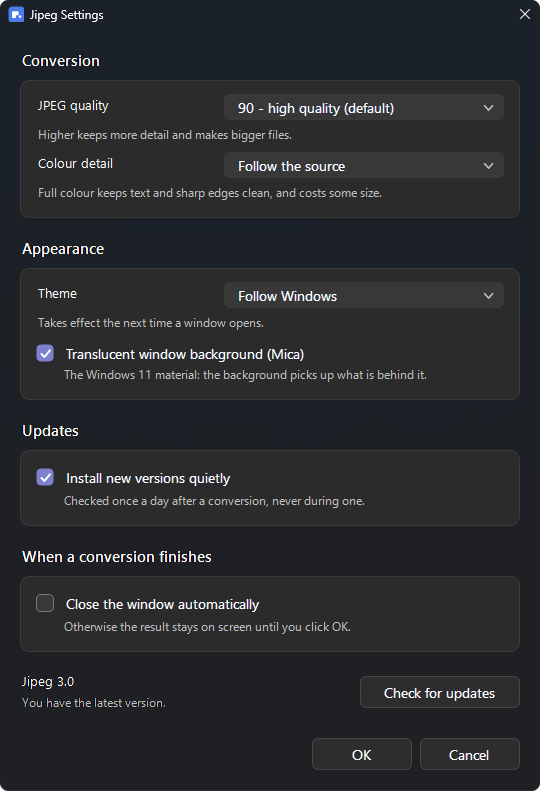
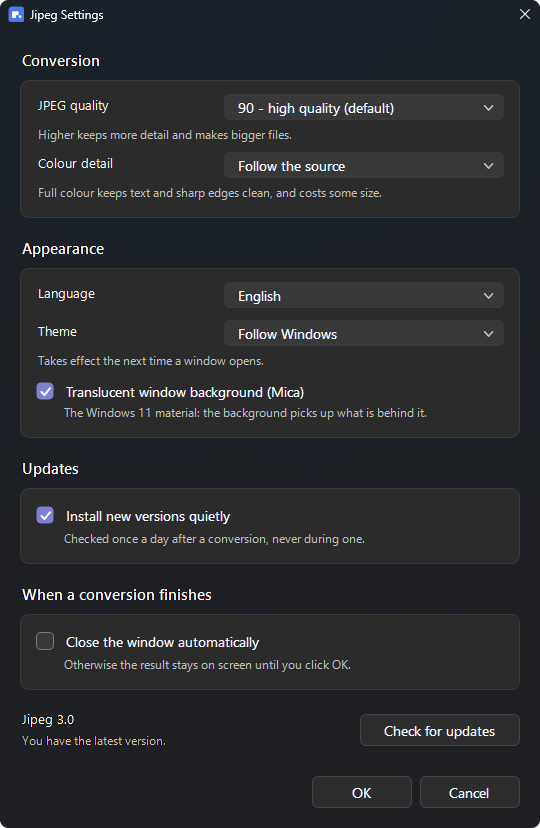
Take out what nobody calls, and stop saying things twice
Compress-JipegPng was left behind when the oxipng call became asynchronous:
defined, never called, and still carrying its own error handling. $JipegFontBold
was declared and never read.

The two PNG chunk walkers were nearly the same function. Both opened the file,
both stepped through the same chunks, and each returned one of two facts that
sit within a few bytes of each other. They are one walk now, returning both.
Same outputs to the byte on a thirteen-file corpus.

Six comments were in French in a codebase written in English, and without
their accents on top of that. The console installer printed the English name
of the right-click entry even when it had just written a Russian one into the
registry - it reads the name back now instead of repeating it.

Twenty-nine lines lighter than before the language work started, not counting
the ten language files.

diff --git a/docs/index.html b/docs/index.html
@@ -308,7 +308,7 @@ var T = {
     cap1:"pendant la conversion", cap2:"tous les réglages, sans exception",
     unix:"<b>Expérimental, et jamais exécuté par son auteur.</b> Il existe un portage pour GNOME Files, KDE Dolphin, XFCE Thunar et le Finder de macOS. Il a été écrit sous Windows : le shell est syntaxiquement valide et les property lists aussi, c'est tout ce qui a été vérifié.",
     s6:"Testé sur une seule machine",
-    p5:"Vingt comportements sont vérifiés à chaque modification, et la géométrie de la fenêtre est mesurée plutôt que regardée — mais tout cela sur une seule machine Windows 11, à 100 % d'échelle. Le HEIC et l'AVIF n'y ont jamais été décodés pour de vrai, l'échelle d'affichage n'est que simulée, et le portage Linux et macOS n'a jamais été exécuté. Les deux bugs qui comptaient ont été trouvés par quelqu'un d'autre.",
+    p5:"Vingt comportements sont vérifiés à chaque modification, et la géométrie de la fenêtre est mesurée plutôt que regardée — mais tout cela sur une seule machine Windows 11, à 100 % d'échelle. Le HEIC et l'AVIF n'y ont jamais été décodés pour de vrai, l'échelle d'affichage n'est que simulée, et le portage Linux et macOS n'a jamais été exécuté.L'interface parle dix langues et chaque chaîne a été mesurée par rapport à la boîte qui doit la contenir, mais aucun locuteur natif n'a relu les neuf traductions. Les deux bugs qui comptaient ont été trouvés par quelqu'un d'autre.",
     l1:"Télécharger", l2:"Code source", l3:"Manuel",
     foot:"Encodage par <a href=\"https://github.com/google/jpegli\">jpegli</a>, compilé par <a href=\"https://github.com/libjxl/libjxl\">libjxl</a>. PNG compressés par <a href=\"https://github.com/oxipng/oxipng\">oxipng</a>, WebP lus par <a href=\"https://github.com/webmproject/libwebp\">libwebp</a>. Sous licence MIT, sans lien avec Google ni avec le comité JPEG."
   },
@@ -334,7 +334,7 @@ var T = {
     cap1:"durante la conversión", cap2:"todos los ajustes que hay",
     unix:"<b>Experimental, y su autor nunca lo ha ejecutado.</b> Hay una adaptación para GNOME Files, KDE Dolphin, XFCE Thunar y el Finder de macOS. Se escribió en Windows: el shell y las listas de propiedades son válidos, y eso es todo lo comprobado.",
     s6:"Probado en una sola máquina",
-    p5:"Veinte comportamientos se comprueban en cada cambio, y la geometría de la ventana se mide en vez de mirarse — pero todo en una sola máquina con Windows 11, al 100 % de escala. HEIC y AVIF nunca se han descodificado aquí de verdad, el escalado de pantalla solo está simulado, y la adaptación a Linux y macOS nunca se ha ejecutado. Los dos fallos que importaban los encontró otra persona.",
+    p5:"Veinte comportamientos se comprueban en cada cambio, y la geometría de la ventana se mide en vez de mirarse — pero todo en una sola máquina con Windows 11, al 100 % de escala. HEIC y AVIF nunca se han descodificado aquí de verdad, el escalado de pantalla solo está simulado, y la adaptación a Linux y macOS nunca se ha ejecutado.La interfaz habla diez idiomas y cada cadena se midió contra la caja que debe contenerla, pero ningún hablante nativo ha leído las nueve traducciones. Los dos fallos que importaban los encontró otra persona.",
     l1:"Descargar", l2:"Código", l3:"Manual",
     foot:"Codificación de <a href=\"https://github.com/google/jpegli\">jpegli</a>, compilado por <a href=\"https://github.com/libjxl/libjxl\">libjxl</a>. PNG comprimidos por <a href=\"https://github.com/oxipng/oxipng\">oxipng</a>, WebP leídos por <a href=\"https://github.com/webmproject/libwebp\">libwebp</a>. Licencia MIT, sin relación con Google ni con el comité JPEG."
   },
@@ -360,7 +360,7 @@ var T = {
     cap1:"während der Umwandlung", cap2:"sämtliche Einstellungen",
     unix:"<b>Experimentell, und vom Autor nie ausgeführt.</b> Es gibt eine Portierung für GNOME Files, KDE Dolphin, XFCE Thunar und den macOS Finder. Sie entstand unter Windows: die Shell und die Property-Lists sind gültig, mehr wurde nicht geprüft.",
     s6:"Auf einem einzigen Rechner geprüft",
-    p5:"Zwanzig Verhaltensweisen werden bei jeder Änderung geprüft, und die Geometrie des Fensters wird gemessen statt angesehen — alles jedoch auf einem einzigen Windows-11-Rechner bei 100 % Skalierung. HEIC und AVIF wurden hier nie wirklich dekodiert, die Skalierung ist nur simuliert, und die Portierung auf Linux und macOS lief nie. Die beiden Fehler, auf die es ankam, fand jemand anderes.",
+    p5:"Zwanzig Verhaltensweisen werden bei jeder Änderung geprüft, und die Geometrie des Fensters wird gemessen statt angesehen — alles jedoch auf einem einzigen Windows-11-Rechner bei 100 % Skalierung. HEIC und AVIF wurden hier nie wirklich dekodiert, die Skalierung ist nur simuliert, und die Portierung auf Linux und macOS lief nie.Die Oberfläche spricht zehn Sprachen, und jede Zeichenkette wurde gegen ihren Platz gemessen - gelesen hat die neun Übersetzungen aber kein Muttersprachler. Die beiden Fehler, auf die es ankam, fand jemand anderes.",
     l1:"Herunterladen", l2:"Quelltext", l3:"Handbuch",
     foot:"Kodierung durch <a href=\"https://github.com/google/jpegli\">jpegli</a>, gebaut von <a href=\"https://github.com/libjxl/libjxl\">libjxl</a>. PNGs verkleinert von <a href=\"https://github.com/oxipng/oxipng\">oxipng</a>, WebP gelesen von <a href=\"https://github.com/webmproject/libwebp\">libwebp</a>. MIT-Lizenz, ohne Verbindung zu Google oder zum JPEG-Komitee."
   },
@@ -386,7 +386,7 @@ var T = {
     cap1:"durante a conversão", cap2:"todas as definições que existem",
     unix:"<b>Experimental, e nunca executado pelo autor.</b> Existe uma adaptação para o GNOME Files, KDE Dolphin, XFCE Thunar e o Finder do macOS. Foi escrita no Windows: a shell e as property lists são válidas, e é tudo o que foi verificado.",
     s6:"Testado numa só máquina",
-    p5:"Vinte comportamentos são verificados a cada alteração, e a geometria da janela é medida em vez de observada — mas tudo numa só máquina com Windows 11, a 100 % de escala. HEIC e AVIF nunca foram aqui descodificados a sério, a escala do ecrã é apenas simulada, e a adaptação a Linux e macOS nunca foi executada. Os dois erros que importavam foram encontrados por outra pessoa.",
+    p5:"Vinte comportamentos são verificados a cada alteração, e a geometria da janela é medida em vez de observada — mas tudo numa só máquina com Windows 11, a 100 % de escala. HEIC e AVIF nunca foram aqui descodificados a sério, a escala do ecrã é apenas simulada, e a adaptação a Linux e macOS nunca foi executada.A interface fala dez idiomas e cada texto foi medido contra a caixa que o tem de conter, mas nenhum falante nativo leu as nove traduções. Os dois erros que importavam foram encontrados por outra pessoa.",
     l1:"Transferir", l2:"Código", l3:"Manual",
     foot:"Codificação por <a href=\"https://github.com/google/jpegli\">jpegli</a>, compilado pelo <a href=\"https://github.com/libjxl/libjxl\">libjxl</a>. PNG comprimidos pelo <a href=\"https://github.com/oxipng/oxipng\">oxipng</a>, WebP lidos pelo <a href=\"https://github.com/webmproject/libwebp\">libwebp</a>. Licença MIT, sem ligação à Google nem ao comité JPEG."
   },
@@ -412,7 +412,7 @@ var T = {
     cap1:"durante la conversione", cap2:"tutte le impostazioni che ci sono",
     unix:"<b>Sperimentale, e mai eseguito dal suo autore.</b> Esiste un port per GNOME Files, KDE Dolphin, XFCE Thunar e il Finder di macOS. È stato scritto su Windows: la shell e le property list sono valide, ed è tutto ciò che è stato verificato.",
     s6:"Provato su una sola macchina",
-    p5:"Venti comportamenti sono verificati a ogni modifica, e la geometria della finestra è misurata invece che guardata — ma tutto su una sola macchina Windows 11, al 100 % di scala. HEIC e AVIF non sono mai stati davvero decodificati qui, il ridimensionamento dello schermo è solo simulato, e il port su Linux e macOS non è mai stato eseguito. I due bug che contavano li ha trovati qualcun altro.",
+    p5:"Venti comportamenti sono verificati a ogni modifica, e la geometria della finestra è misurata invece che guardata — ma tutto su una sola macchina Windows 11, al 100 % di scala. HEIC e AVIF non sono mai stati davvero decodificati qui, il ridimensionamento dello schermo è solo simulato, e il port su Linux e macOS non è mai stato eseguito.L'interfaccia parla dieci lingue e ogni stringa è stata misurata rispetto allo spazio che deve occupare, ma nessun madrelingua ha letto le nove traduzioni. I due bug che contavano li ha trovati qualcun altro.",
     l1:"Scarica", l2:"Codice", l3:"Manuale",
     foot:"Codifica di <a href=\"https://github.com/google/jpegli\">jpegli</a>, compilato da <a href=\"https://github.com/libjxl/libjxl\">libjxl</a>. PNG compressi da <a href=\"https://github.com/oxipng/oxipng\">oxipng</a>, WebP letti da <a href=\"https://github.com/webmproject/libwebp\">libwebp</a>. Licenza MIT, senza legami con Google né con il comitato JPEG."
   },
@@ -438,7 +438,7 @@ var T = {
     cap1:"w trakcie konwersji", cap2:"wszystkie ustawienia, jakie są",
     unix:"<b>Eksperymentalne i nigdy nie uruchomione przez autora.</b> Istnieje port dla GNOME Files, KDE Dolphin, XFCE Thunar i Findera na macOS. Powstał na Windows: powłoka i property listy są poprawne, i tylko tyle zostało sprawdzone.",
     s6:"Sprawdzone na jednej maszynie",
-    p5:"Dwadzieścia zachowań jest sprawdzanych przy każdej zmianie, a geometria okna jest mierzona zamiast oglądana — ale wszystko na jednej maszynie z Windows 11, przy skali 100 %. HEIC i AVIF nigdy nie zostały tu naprawdę zdekodowane, skalowanie ekranu jest tylko symulowane, a port na Linuksa i macOS nigdy nie został uruchomiony. Dwa błędy, które miały znaczenie, znalazł ktoś inny.",
+    p5:"Dwadzieścia zachowań jest sprawdzanych przy każdej zmianie, a geometria okna jest mierzona zamiast oglądana — ale wszystko na jednej maszynie z Windows 11, przy skali 100 %. HEIC i AVIF nigdy nie zostały tu naprawdę zdekodowane, skalowanie ekranu jest tylko symulowane, a port na Linuksa i macOS nigdy nie został uruchomiony.Interfejs mówi w dziesięciu językach i każdy napis zmierzono względem miejsca, w którym ma się zmieścić, ale żaden rodzimy użytkownik nie przeczytał dziewięciu tłumaczeń. Dwa błędy, które miały znaczenie, znalazł ktoś inny.",
     l1:"Pobierz", l2:"Kod", l3:"Podręcznik",
     foot:"Kodowanie przez <a href=\"https://github.com/google/jpegli\">jpegli</a>, zbudowane przez <a href=\"https://github.com/libjxl/libjxl\">libjxl</a>. PNG zmniejsza <a href=\"https://github.com/oxipng/oxipng\">oxipng</a>, WebP czyta <a href=\"https://github.com/webmproject/libwebp\">libwebp</a>. Licencja MIT, bez związku z Google ani komitetem JPEG."
   },
@@ -464,7 +464,7 @@ var T = {
     cap1:"во время преобразования", cap2:"все настройки, какие есть",
     unix:"<b>Экспериментально, автор ни разу это не запускал.</b> Есть порт для GNOME Files, KDE Dolphin, XFCE Thunar и Finder на macOS. Он написан под Windows: оболочка и property-списки корректны, и это всё, что проверено.",
     s6:"Проверено на одной машине",
-    p5:"Двадцать поведений проверяются при каждом изменении, а геометрия окна измеряется, а не осматривается — но всё это на одной машине с Windows 11 при масштабе 100 %. HEIC и AVIF здесь ни разу по-настоящему не декодировались, масштабирование экрана только смоделировано, а порт на Linux и macOS не запускался вовсе. Две ошибки, которые действительно имели значение, нашёл другой человек.",
+    p5:"Двадцать поведений проверяются при каждом изменении, а геометрия окна измеряется, а не осматривается — но всё это на одной машине с Windows 11 при масштабе 100 %. HEIC и AVIF здесь ни разу по-настоящему не декодировались, масштабирование экрана только смоделировано, а порт на Linux и macOS не запускался вовсе.Интерфейс говорит на десяти языках, и каждая строка измерена по месту, в которое должна поместиться, но ни один носитель языка не прочитал девять переводов. Две ошибки, которые действительно имели значение, нашёл другой человек.",
     l1:"Скачать", l2:"Исходники", l3:"Руководство",
     foot:"Кодирование — <a href=\"https://github.com/google/jpegli\">jpegli</a>, сборка <a href=\"https://github.com/libjxl/libjxl\">libjxl</a>. PNG сжимает <a href=\"https://github.com/oxipng/oxipng\">oxipng</a>, WebP читает <a href=\"https://github.com/webmproject/libwebp\">libwebp</a>. Лицензия MIT, без отношения к Google и комитету JPEG."
   },
@@ -490,7 +490,7 @@ var T = {
     cap1:"変換中", cap2:"設定はこれで全部",
     unix:"<b>実験的で、作者自身が一度も実行していません。</b> GNOME Files、KDE Dolphin、XFCE Thunar、macOS の Finder 向けの移植があります。Windows 上で書かれ、シェルとプロパティリストが構文として正しいこと、確認できているのはそれだけです。",
     s6:"確認できたのは一台だけ",
-    p5:"変更のたびに二十の挙動を確認し、ウィンドウの寸法は目視ではなく実測しています。ただしすべて一台の Windows 11、拡大率 100 % での話です。HEIC と AVIF はここで実際に復号したことがなく、画面の拡大率は模擬しているだけ、Linux と macOS への移植は一度も動かしていません。重要だった二つの不具合は、別の人が見つけました。",
+    p5:"変更のたびに二十の挙動を確認し、ウィンドウの寸法は目視ではなく実測しています。ただしすべて一台の Windows 11、拡大率 100 % での話です。HEIC と AVIF はここで実際に復号したことがなく、画面の拡大率は模擬しているだけ、Linux と macOS への移植は一度も動かしていません。画面は十の言語に対応し、どの文字列も収まるべき枠に対して実測しましたが、九つの翻訳を母語話者が読んだことはありません。 重要だった二つの不具合は、別の人が見つけました。",
     l1:"ダウンロード", l2:"ソース", l3:"説明書",
     foot:"符号化は <a href=\"https://github.com/google/jpegli\">jpegli</a>、ビルドは <a href=\"https://github.com/libjxl/libjxl\">libjxl</a>。PNG の圧縮は <a href=\"https://github.com/oxipng/oxipng\">oxipng</a>、WebP の読み込みは <a href=\"https://github.com/webmproject/libwebp\">libwebp</a>。MIT ライセンス。Google とも JPEG 委員会とも関係はありません。"
   },
@@ -516,7 +516,7 @@ var T = {
     cap1:"转换过程中", cap2:"全部设置就这些",
     unix:"<b>实验性质，作者从未运行过。</b> 有一个面向 GNOME Files、KDE Dolphin、XFCE Thunar 和 macOS Finder 的移植版。它写于 Windows：shell 与属性列表语法有效，已核实的仅此而已。",
     s6:"只在一台机器上验证过",
-    p5:"每次改动都会检查二十项行为，窗口的几何尺寸是量出来的而不是看出来的——但这一切都只在一台 Windows 11、100 % 缩放的机器上。HEIC 与 AVIF 从未在这里真正解码过，屏幕缩放只是模拟，Linux 与 macOS 的移植一次也没运行过。真正要紧的两个缺陷是别人发现的。",
+    p5:"每次改动都会检查二十项行为，窗口的几何尺寸是量出来的而不是看出来的——但这一切都只在一台 Windows 11、100 % 缩放的机器上。HEIC 与 AVIF 从未在这里真正解码过，屏幕缩放只是模拟，Linux 与 macOS 的移植一次也没运行过。界面支持十种语言，每一条文案都按它要占的位置量过，但九种译文没有任何母语者读过。 真正要紧的两个缺陷是别人发现的。",
     l1:"下载", l2:"源码", l3:"手册",
     foot:"编码由 <a href=\"https://github.com/google/jpegli\">jpegli</a> 完成，<a href=\"https://github.com/libjxl/libjxl\">libjxl</a> 构建。PNG 由 <a href=\"https://github.com/oxipng/oxipng\">oxipng</a> 压缩，WebP 由 <a href=\"https://github.com/webmproject/libwebp\">libwebp</a> 读取。MIT 许可，与 Google 及 JPEG 委员会无关。"
   }

diff --git a/README.md b/README.md
@@ -116,6 +116,7 @@ This is most of what separates Jipeg from any other converter.
 |---|---|
 | **JPEG quality** | libjpeg scale. 90 is the default and is exactly distance 1.0, jpegli's own definition of visually lossless. |
 | **Colour detail** | *Follow the source* asks two questions rather than guessing from the file type. Does the content need full colour — measured from the density of hard colour transitions, which is what 4:2:0 destroys: photographs score 0.00%, a photograph with a line of coloured text over it 0.10%, a screenshot 3.48%. And can the source even have it — a JPEG states its sampling in its own frame header, and a lossy WebP is 4:2:0 inside whatever it looks like. |
+| **Language** | Ten of them: English, Français, Español, Deutsch, Português, Italiano, Polski, Русский, 日本語, 中文. *Automatic* follows the Windows display language and falls back to English. The right-click entry is renamed too — the shell keeps its own copy of that wording in the registry, so changing the language goes back and rewrites all twenty-three keys. |
 | **Theme** | Follow Windows, or force Light or Dark. |
 | **Translucent window background (Mica)** | The Windows 11 material, on by default. It shows only in the space between the cards; the surfaces on top of it are opaque and measure exactly the colours they were given. |
 | **Close the window automatically** | Off by default, so the result stays until you dismiss it. |
@@ -171,6 +172,7 @@ What that leaves untested, in plain terms:
 | **Linux and macOS** | Never executed at all. See [`platform/README.md`](platform/README.md). |
 | **Other Windows** | No other build, no other system language, no other accent colour, no second monitor, no touch. |
 | **Somebody else's machine** | No antivirus, no managed or corporate policy, no SmartScreen prompt as a stranger would see it. |
+| **The nine translations** | Every string was measured against the box it has to fit in, so nothing is cut off. None of them has been read by a native speaker. |
 
 The two bugs that mattered most — PNGs coming out heavier, and WebP — were found
 by somebody else running it, not by any of the above. That is the honest measure
